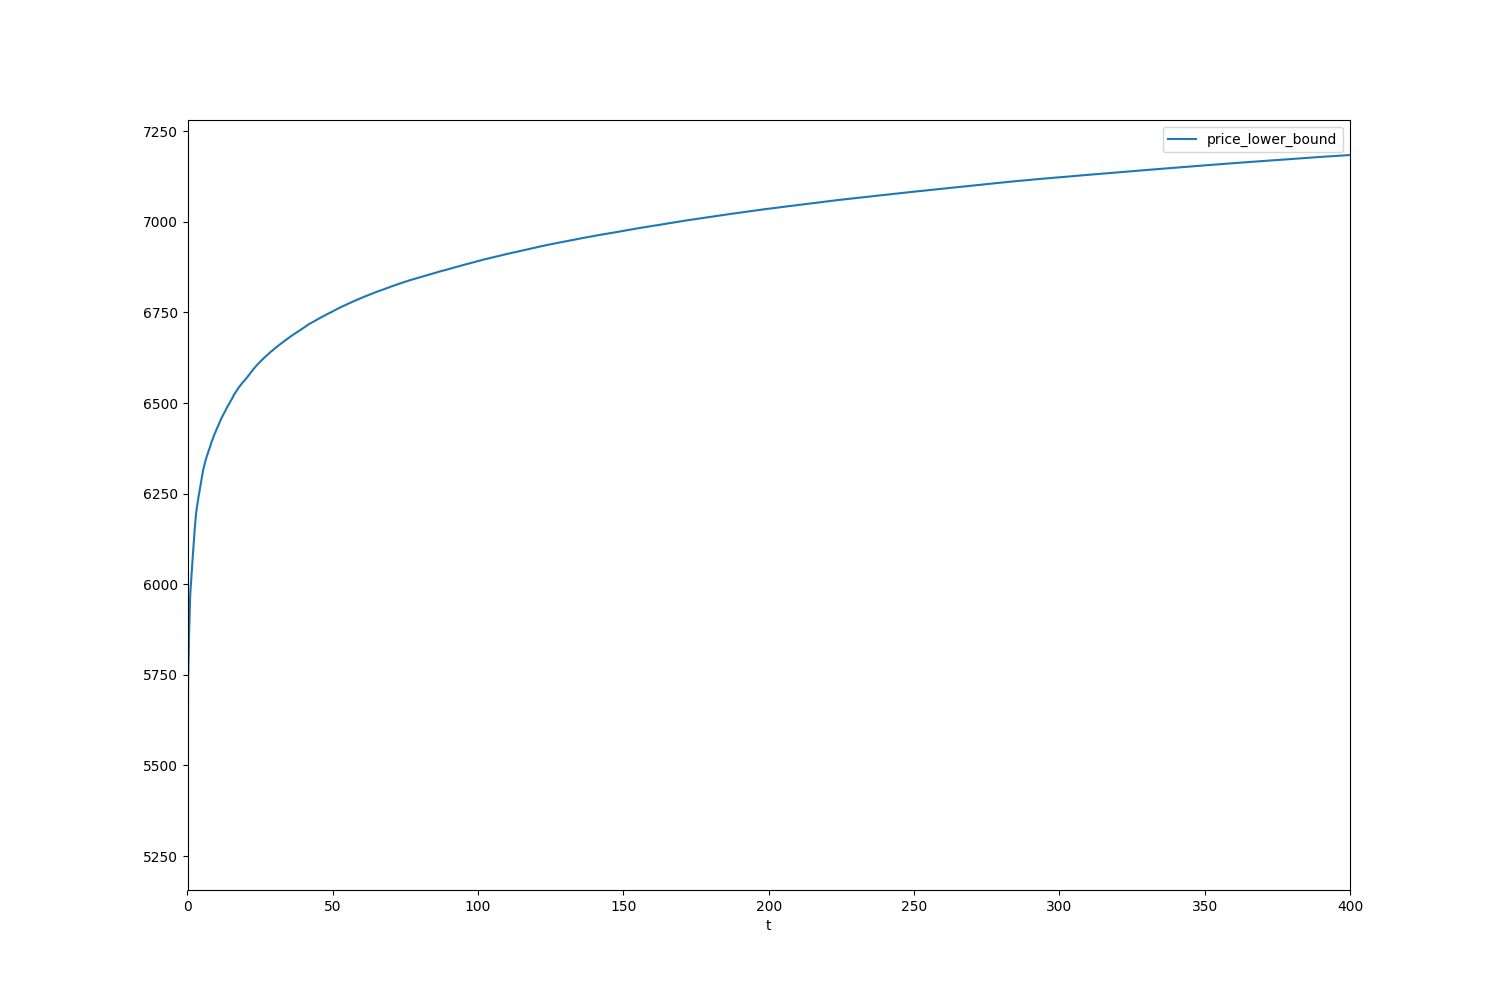
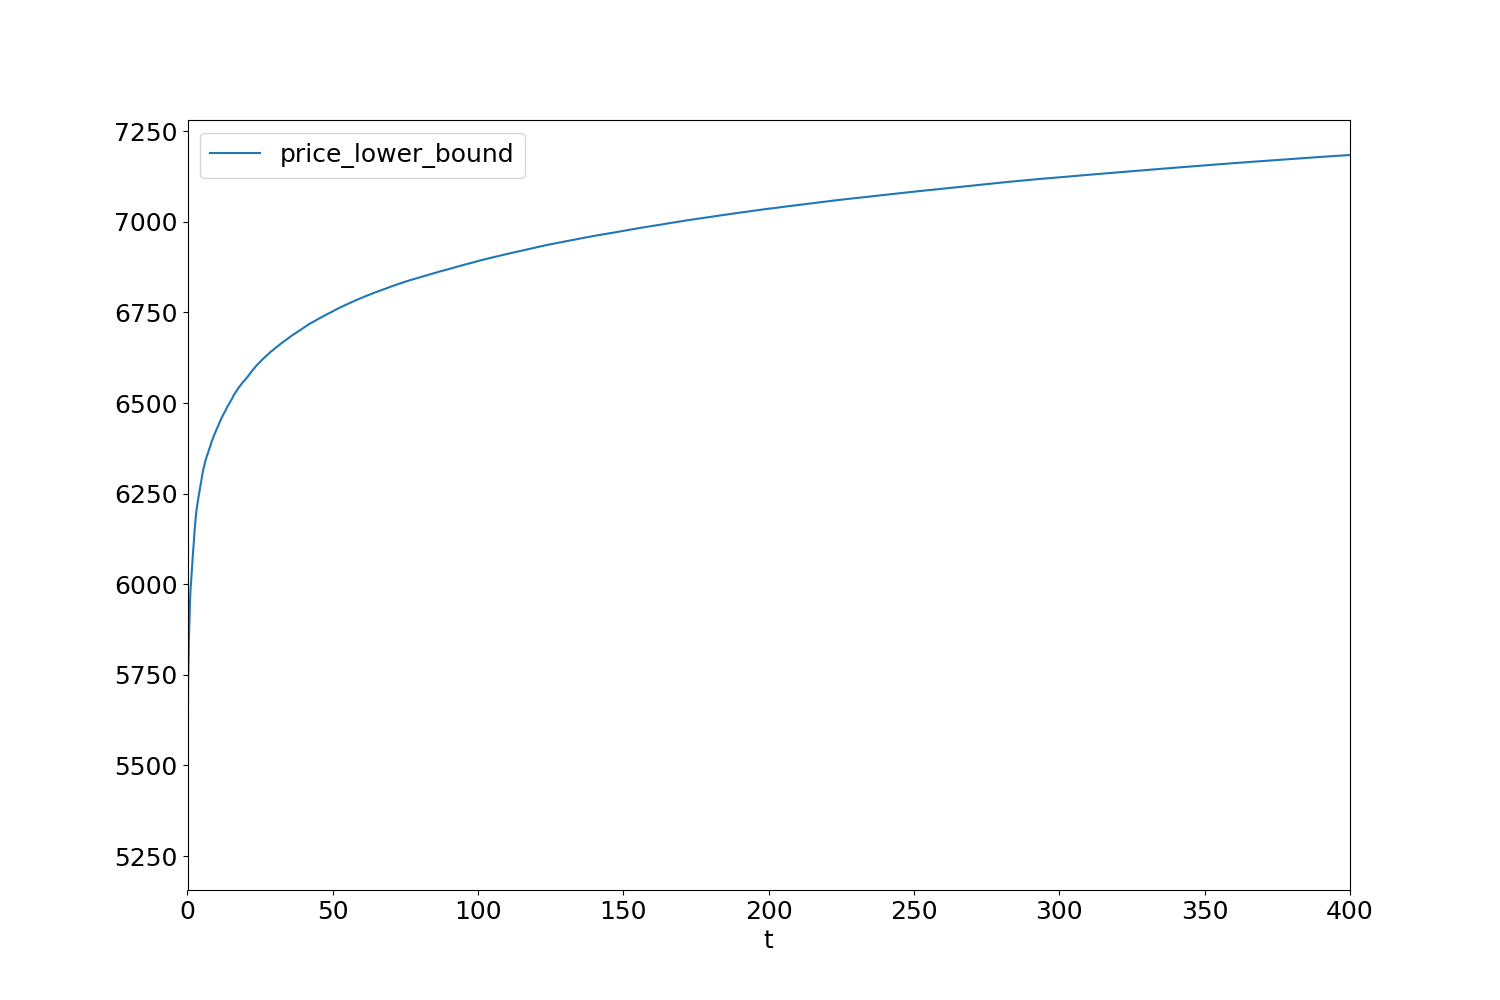
update font size

diff --git a/scripts/bnb_visual.py b/scripts/bnb_visual.py
@@ -2,6 +2,7 @@ import pandas as pd
 import json
 from utils.path import data_dir, fig_dir
 import matplotlib.pyplot as plt
+import matplotlib 
 
 vinfo_path = data_dir(['visualize', 'bnb', 'vinfo.json'])
 fig_path = fig_dir(['bnb_visual'])
@@ -9,6 +10,8 @@ fig_path = fig_dir(['bnb_visual'])
 df = pd.DataFrame(json.load(open(vinfo_path, 'r')))
 df = df.set_index('t')
 
+matplotlib.rcParams.update({'font.size': 18})
+
 for col in df.columns:
     df.plot(y=col, figsize=(15,10))
-    plt.savefig(fig_path + '/0.5%/{}.png'.format(col))
+    plt.savefig(fig_path + '/1%/{}.png'.format(col))
